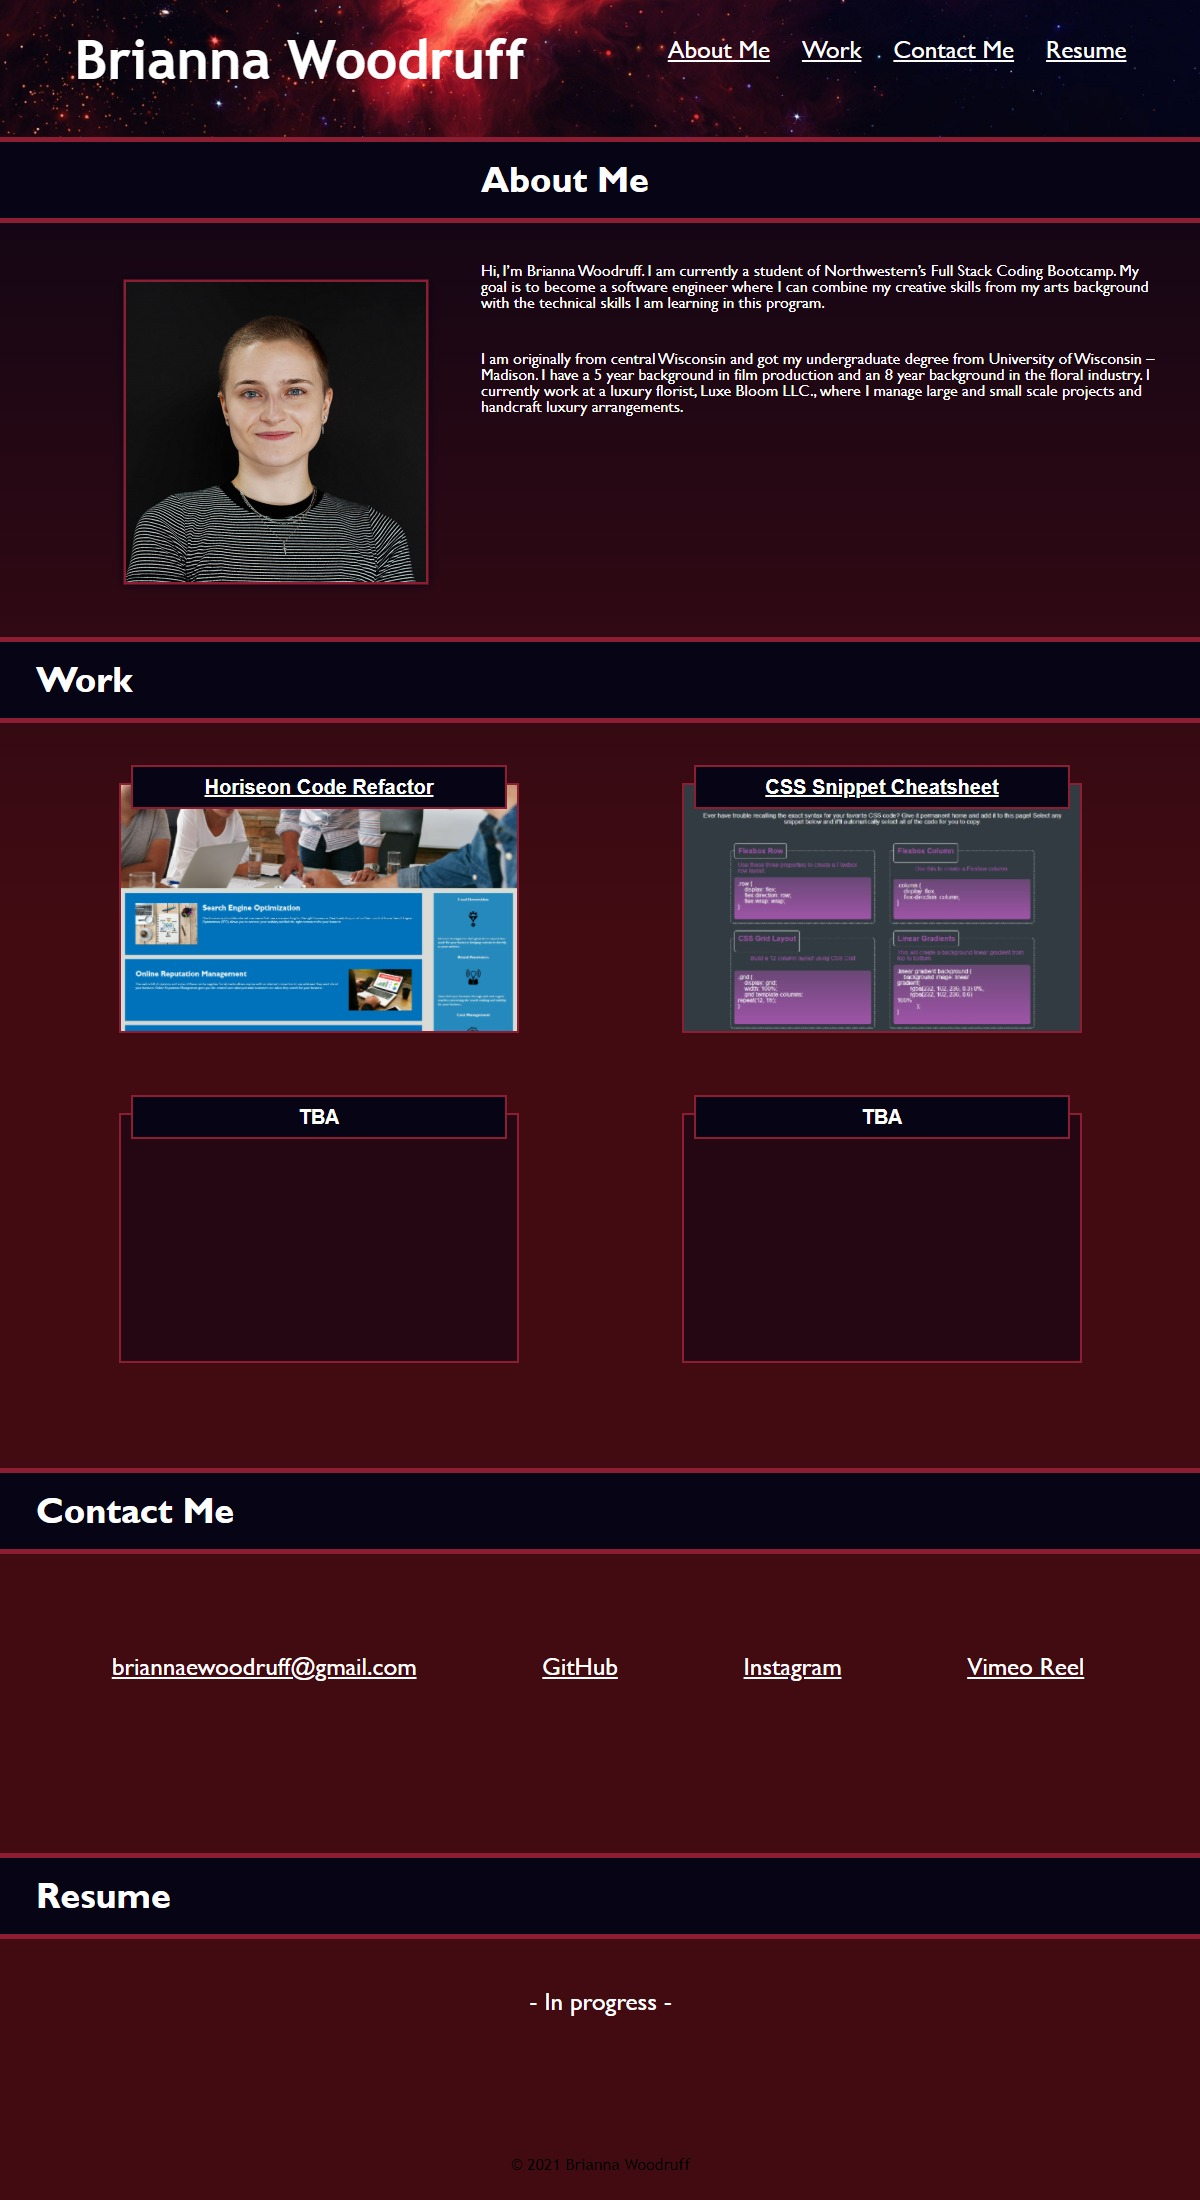
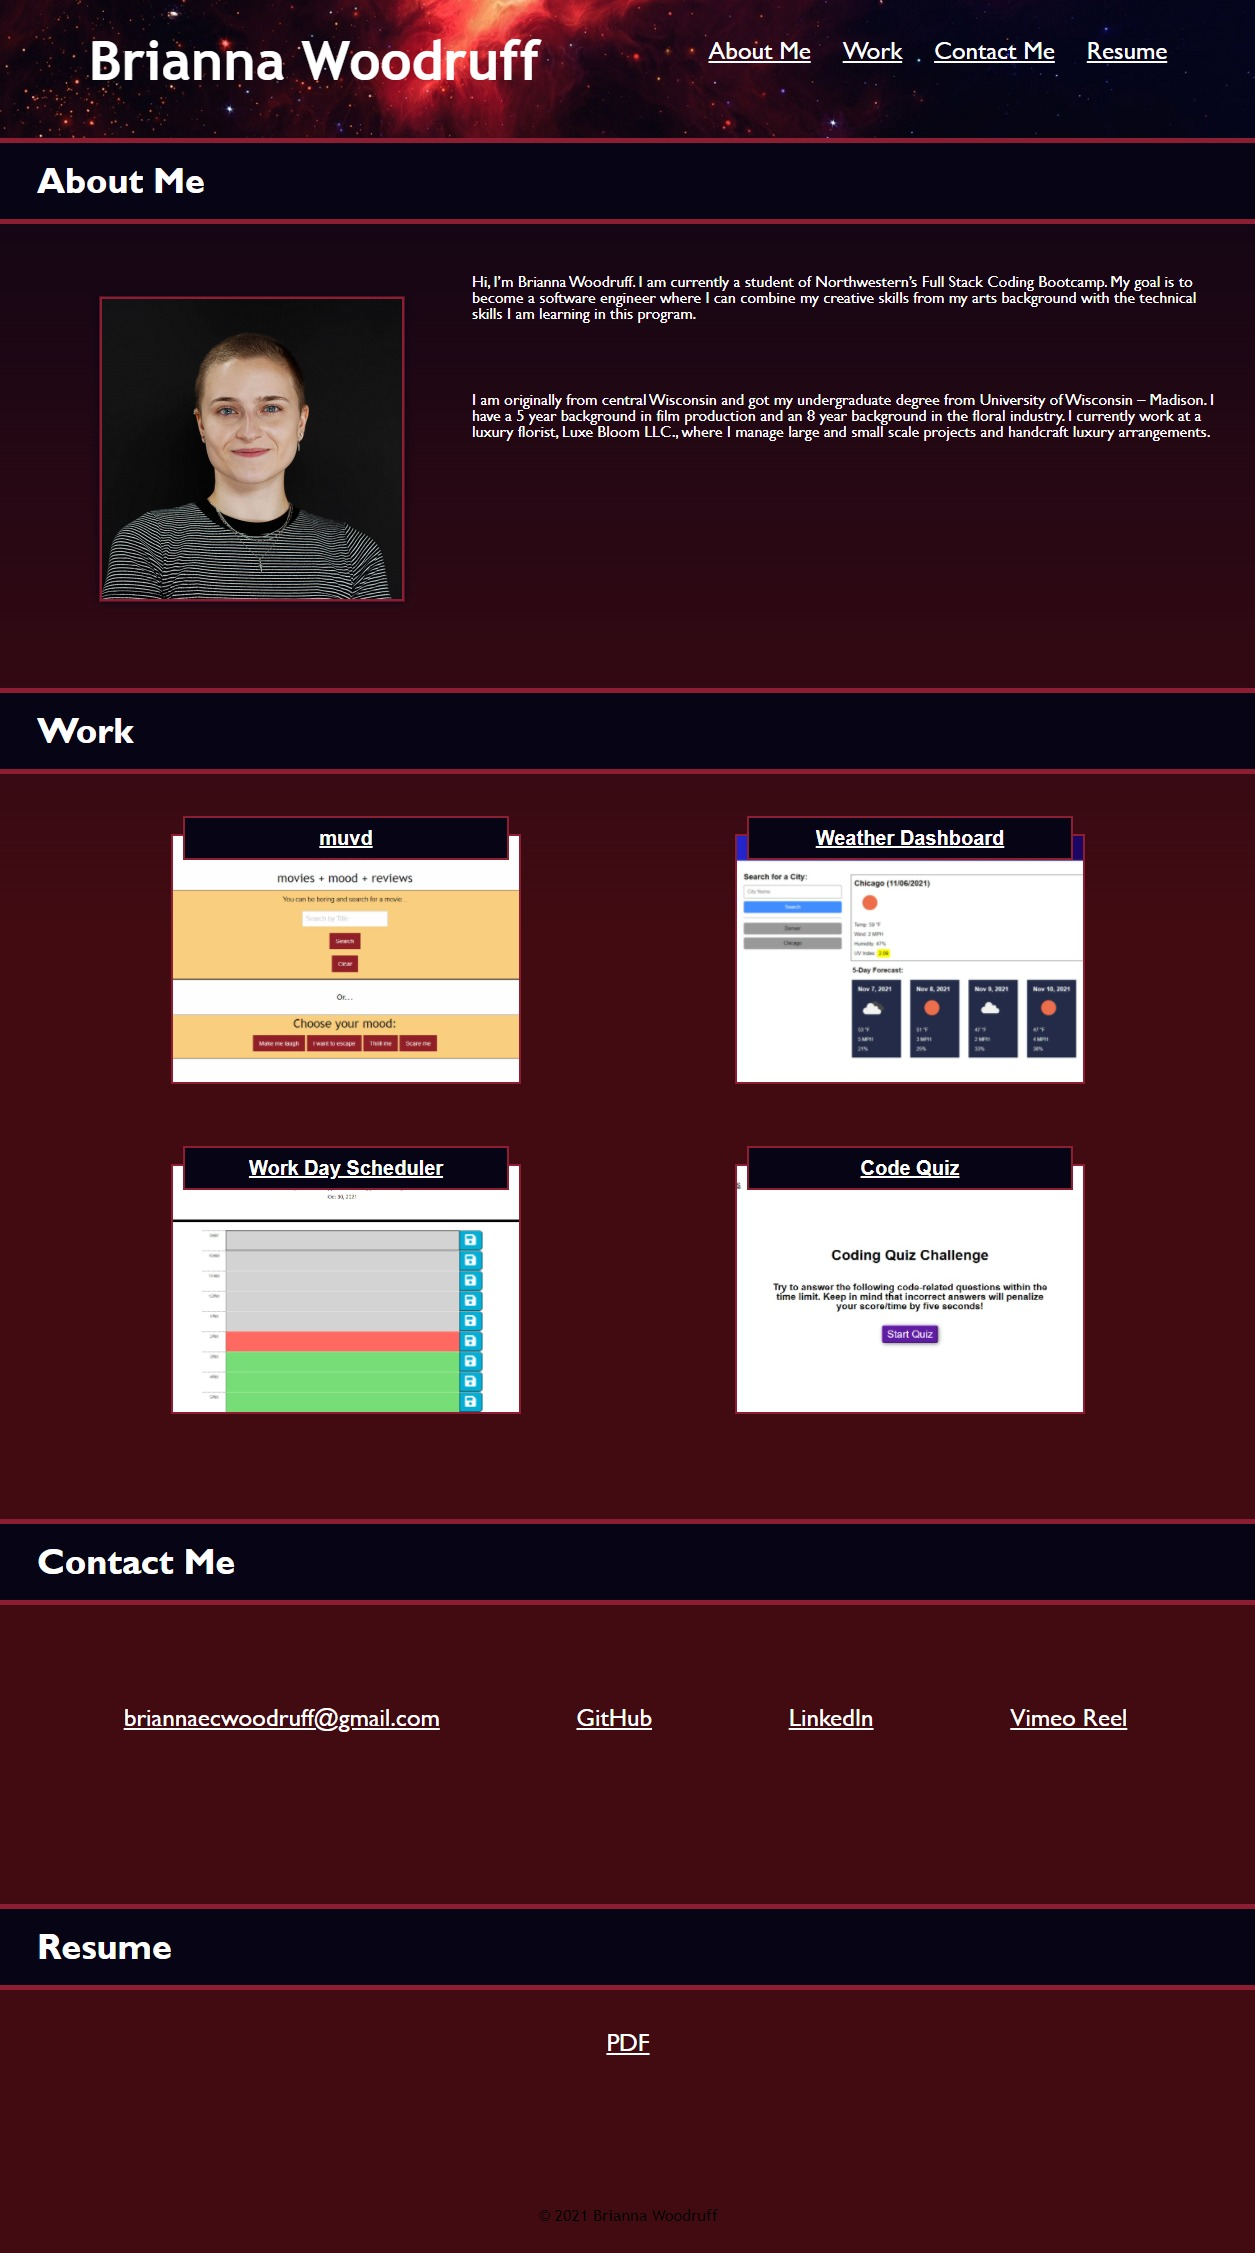
added new projects and updated css

diff --git a/index.html b/index.html
@@ -6,10 +6,10 @@
     <meta http-equiv="X-UA-Compatible" content="IE=edge">
     <meta name="viewport" content="width=device-width, initial-scale=1.0">
     <link rel="stylesheet" type="text/css" href="./assets/css/reset.css">
-    <link rel="stylesheet" type="text/css" href="./assets/css/style.css"/>
+    <link rel="stylesheet" type="text/css" href="./assets/css/style.css" />
     <title>Brianna Woodruff | Professional Portfolio</title>
 </head>
- 
+
 <body>
     <header class="bg-img">
         <h1>Brianna Woodruff</h1>
@@ -28,70 +28,82 @@
                     <a href="#Resume">Resume</a>
                 </li>
             </ul>
-        </nav> 
+        </nav>
     </header>
-    
+
     <main>
         <section id="About-Me" class="card About-Me">
-            <div class="avatar">
-                <img src="./assets/images/profile_img.png"  class="profile-img" alt=""/>
-            </div>
             <h2>About Me</h2>
-                    <p>
-                        Hi, I’m Brianna Woodruff. I am currently a student of Northwestern’s Full Stack Coding Bootcamp. My goal is to become a software engineer where I can combine my creative skills from my arts background with the technical skills I am learning in this program.
-                    </p>
-                    <p>
-                        I am originally from central Wisconsin and got my undergraduate degree from University of Wisconsin – Madison. I have a 5 year background in film production and an 8 year background in the floral industry. I currently work at a luxury florist, Luxe Bloom LLC., where I manage large and small scale projects and handcraft luxury arrangements.
-                    </p>
-            </section>
+            <div class="avatar">
+                <img src="./assets/images/profile_img.png" class="profile-img" alt="" />
+            </div>
+            <p>
+                Hi, I’m Brianna Woodruff. I am currently a student of Northwestern’s Full Stack Coding Bootcamp. My goal
+                is to become a software engineer where I can combine my creative skills from my arts background with the
+                technical skills I am learning in this program.
+            </p>
+            <p>
+                I am originally from central Wisconsin and got my undergraduate degree from University of Wisconsin –
+                Madison. I have a 5 year background in film production and an 8 year background in the floral industry.
+                I currently work at a luxury florist, Luxe Bloom LLC., where I manage large and small scale projects and
+                handcraft luxury arrangements.
+            </p>
+        </section>
 
-            <section id="Work" class="Work">
-                <div class="card">
-                    <h2>Work</h2>
-                </div>
+        <section id="Work" class="Work">
+            <div class="card">
+                <h2>Work</h2>
+            </div>
 
-                <div class="container">
-                    <div class="code-card refactor">
-                        <!-- Future JS: onclick="window.location.href='https://briannawoodruff.github.io/01-homework';" style="cursor: pointer;" -->
-                        <h3 class="card-header"><a target="_blank" href="https://briannawoodruff.github.io/01-homework/">Horiseon Code Refactor</h3></a>
+            <div class="container">
+                <a target="_blank" href="https://coding-p1-g1.github.io/muvd/">
+                    <div class="code-card muvd">
+                        <h3 class="card-header">muvd</h3>
                     </div>
-                    
-                    <div class="code-card cheatsheet">
-                        <h3 class="card-header"><a target="_blank" href="https://briannawoodruff.github.io/02-MiniProject-CSS/">CSS Snippet Cheatsheet</h3></a>
-                    </div>
-                    
-                    <div class="code-card TBA">
-                        <h3 class="card-header">TBA</h3>
-                    </div>
+                </a>
 
-                    <div class="code-card TBA">
-                        <h3 class="card-header">TBA</h3>
+                <a target="_blank" href="https://briannawoodruff.github.io/Weather-Dashboard/">
+                    <div class="code-card weather-dash">
+                        <h3 class="card-header">Weather Dashboard</h3>
                     </div>
-                </div>
-            </section>
+                </a>
 
-            <section id="Contact-Me" class="card Contact-Me">
-                <h2>Contact Me</h2>
-                <ul class="contact-links">
-                    <li class="all">briannaewoodruff@gmail.com</li>
-                    <li>
-                        <a target="_blank" href="https://github.com/briannawoodruff">GitHub</a>
-                    </li>
-                    <li>
-                        <a target="_blank" href="https://www.instagram.com/brianna.woodruff/">Instagram</a>
-                    </li>
-                    <li>
-                        <a target="_blank" href="https://vimeo.com/294283512/">Vimeo Reel</a>
-                    </li>
-                </ul>
-            </section>
+                <a target="_blank" href="https://briannawoodruff.github.io/Work-Day-Scheduler/">
+                    <div class="code-card work-scheduler">
+                        <h3 class="card-header">Work Day Scheduler</h3>
+                    </div>
+                </a>
 
-            <section id="Resume" class="card Resume">
-                <h2>Resume</h2>
-                <p>
-                    <p>- In progress -</p>
-                </p>
-            </section>
+                <a target="_blank" href="https://briannawoodruff.github.io/04-Web-APIs-Code-Quiz/">
+                    <div class="code-card code-quiz">
+                        <h3 class="card-header">Code Quiz</h3>
+                    </div>
+                </a>
+            </div>
+        </section>
+
+        <section id="Contact-Me" class="card Contact-Me">
+            <h2>Contact Me</h2>
+            <ul class="contact-links">
+                <li class="all">briannaecwoodruff@gmail.com</li>
+                <li>
+                    <a target="_blank" href="https://github.com/briannawoodruff">GitHub</a>
+                </li>
+                <li>
+                    <a target="_blank" href="https://linkedin.com/in/briannaewoodruff/">LinkedIn</a>
+                </li>
+                <li>
+                    <a target="_blank" href="https://vimeo.com/294283512/">Vimeo Reel</a>
+                </li>
+            </ul>
+        </section>
+
+        <section id="Resume" class="card Resume">
+            <h2>Resume</h2>
+            <p>
+                <a target="_blank" href="https://drive.google.com/file/d/1ytJ89mgdaZeQ835FJwHTnhqNE1GZ8o4e/view?usp=sharing">PDF</a>
+            </p>
+        </section>
     </main>
 
     <footer>

diff --git a/assets/css/style.css b/assets/css/style.css
@@ -70,7 +70,6 @@ p {
   font-size: 16px;
 }
 
-
 main {
   display: flex;
   flex-wrap: wrap;
@@ -101,25 +100,30 @@ main {
 
 .About-Me {
   width: 100%;
-  height: 500px;
+  height: 550px;
   margin-top: -20px;
 }
 
-.About-Me h2 {
+/* .About-Me h2 {
   padding-right: 40px;
-}
+} */
 
 .About-Me p { 
-  margin-right: 20px;
+  /* margin-right: 20px; */
+  width: 100%;
+  margin-left: -25px;
+  margin-top: 30px;
 }
 
 .avatar {
   display: block;
+  display: flex;
+  flex-wrap: wrap;
   float: left;
-  margin-left: -25px;
-  margin-right: -100px;
-  margin-top: -10px;
-  margin-bottom: -100px;
+  margin-left: -50px;
+  margin-right: -85px;
+  margin-top: -100px;
+  /* margin-bottom: -100px; */
 }
 
 .profile-img {
@@ -150,6 +154,7 @@ main {
   padding: 10px;
   flex: 0 0 400px;
   height: 250px;
+  width: 350px;
   margin: 40px;
 }
 
@@ -165,23 +170,40 @@ main {
   text-align: center;
 }
 
-.refactor {
-  background-image: url(../images/ScreenCapture001-Horiseon-SocialSolutionServices-briannawoodruff.github.io.jpg);
+.muvd {
+  background-image: url(../images/muvd.jpg);
   background-size: 100%;
   background-repeat: no-repeat;
   background-position: center;
+  background-size: cover;
 }
 
-.cheatsheet {
-  background-image: url(../images/ScreenCapture-CSS-SnippetCheatsheet.jpg);
+.weather-dash {
+  background-image: url(../images/ScreenCapture-WeatherDashboard.jpg);
+  background-size: 100%;
+  background-repeat: no-repeat;
+  background-size: cover;
+}
+
+.work-scheduler {
+  background-image: url(../images/ScreenCapture-WorkDayScheduler.jpg);
+  background-size: 100%;
+  background-repeat: no-repeat;
+  background-position: bottom;
+  background-size: cover;
+}
+
+.code-quiz {
+  background-image: url(../images/ScreenCapture-CodeQuiz.jpg);
   background-size: 100%;
   background-repeat: no-repeat;
   background-position: top;
+  background-size: cover;
 }
 
-.TBA {
+/* .TBA {
   background: rgba(7, 4, 21, 0.5);
-}
+} */
 
 .Contact-Me {
   width: 100%;
@@ -209,7 +231,6 @@ main {
 .Resume p {
   text-align: center;
   font-size: 25px;
-  margin-top: -15px;
 }
 
 footer {
@@ -290,23 +311,45 @@ a:hover a {
     }
 
     .About-Me {
-      height: 630px;
+      display: flex;
+      flex-wrap: wrap;
+      display: block;
+      flex-direction: column;
+      height: 800px;
     }
 
-    .Contact-Me {
+    .avatar {
+      display: flex;
+      flex-wrap: wrap;
+      float: none;
+      justify-content: center;
+      margin-left: 0px;
+      margin-top: -100px;
+      margin-right: 0;
+      margin-bottom: -125px;
+    }
+
+    section {
+      text-align: center;
+    }
+
+    .About-Me p {
+      flex-direction: column;
+      text-align: center;
+      margin-left: 0px;
+      margin-top: 0px;
+    }
+
+    .Work {
+      margin-top: 25px;
+    }
+
+     .Contact-Me {
       height: 350px;
     }
 
     .Resume {
       height: 300px;
-    }
-
-    .avatar {
-      margin-left: -100px;
-      display: block;
-      justify-content: center;
-      margin-top: -10px;
-      margin-bottom: -140px;
     }
 }
 
@@ -323,26 +366,33 @@ a:hover a {
     }
 
     nav ul li {
-      padding: 20px;
+      padding: 25px;
     }
 
     ul {
       text-align: center;
-      margin-bottom: 50px;
       margin-left: -25px;
     }
 
     .avatar {
-      width: 100%;
-      margin-bottom: -130px;
-      margin-left: -75px;
-      margin-right: 100px;
+      display: flex;
+      flex-wrap: wrap;
+      float: none;
+      justify-content: center;
+      margin-left: 0px;
       margin-top: -100px;
+      margin-right: 0;
+      margin-bottom: -125px;
     }
 
     .About-Me {
-      margin-bottom: 80px;
-      height: 600px;
+      display: flex;
+      flex-wrap: wrap;
+      display: block;
+      flex-direction: column;
+      margin-bottom: 65px;
+      margin-top: 30px;
+      height: 625px;
     }
 
     section {
@@ -355,10 +405,13 @@ a:hover a {
     }
 
     .About-Me p {
-      text-align: left;
+      flex-direction: column;
+      text-align: center;
+      margin-left: 0px;
+      margin-top: 0px;
     }
 
-    .refactor {
+    .muvd {
       margin-top: 50px;
     }
 
@@ -367,8 +420,4 @@ a:hover a {
       margin-top: -10px;
       margin-left: 25px;
     }
-
-    .TBA {
-      display: none;
-    }
-}
+  }
